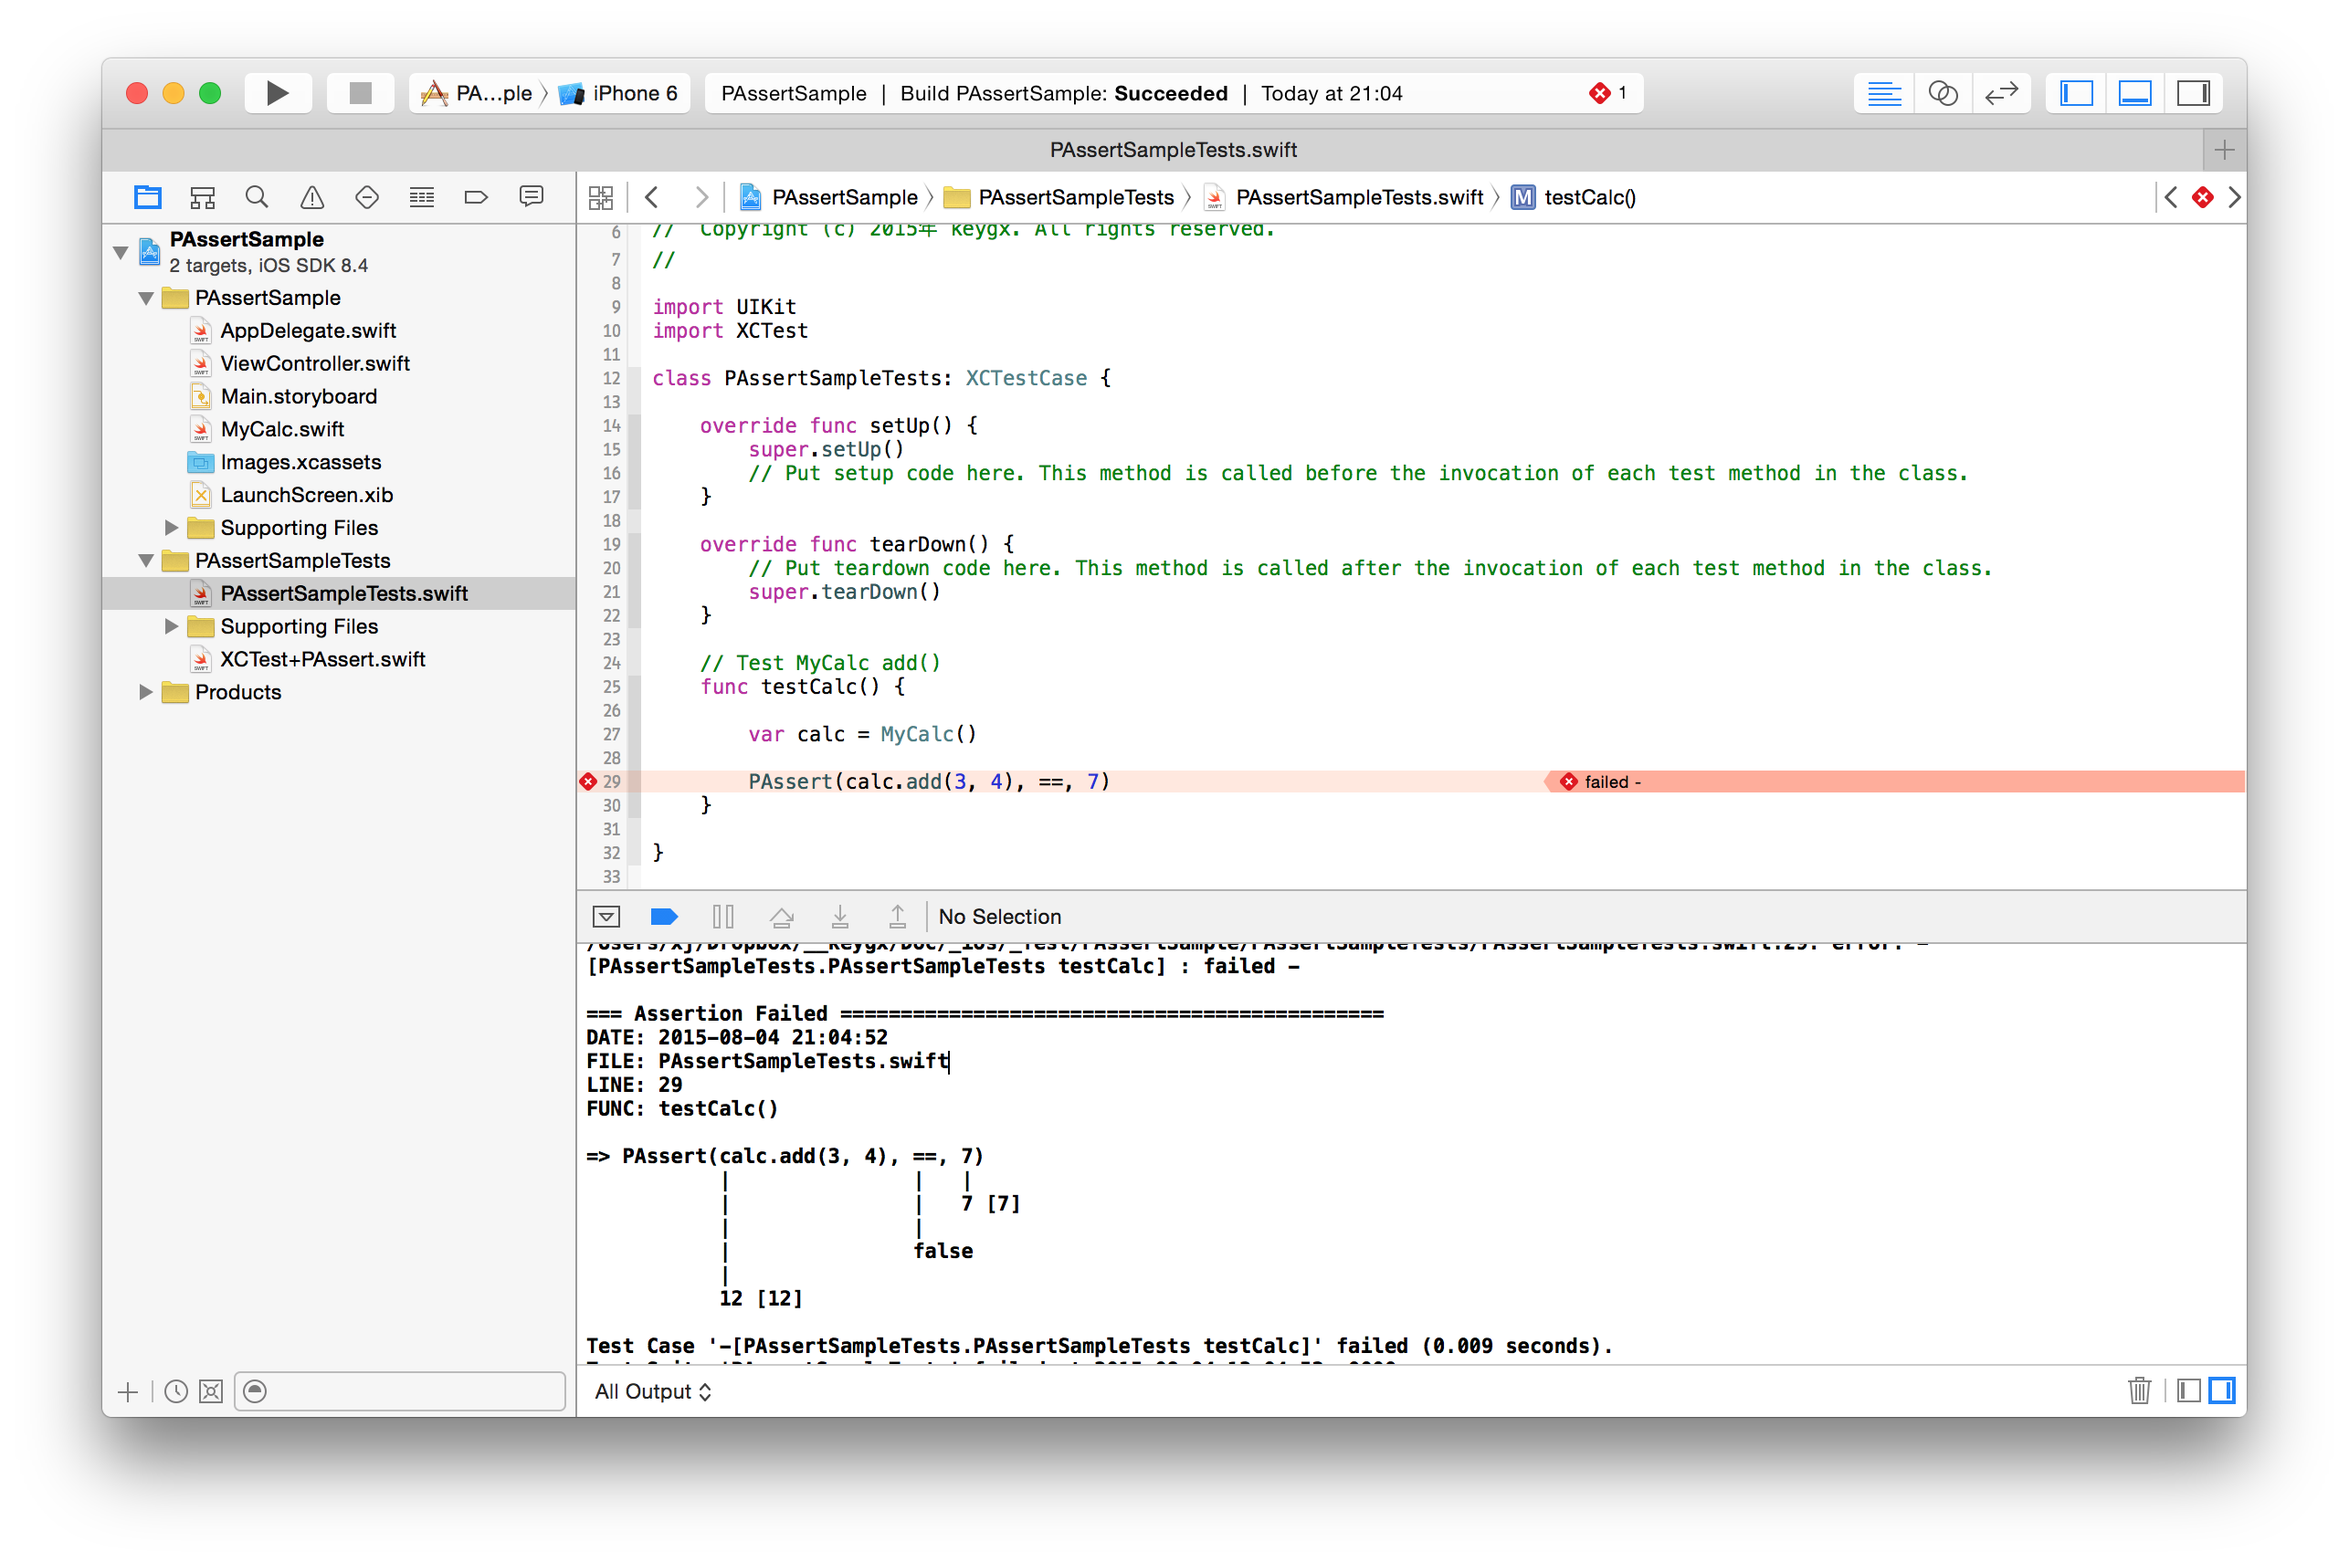
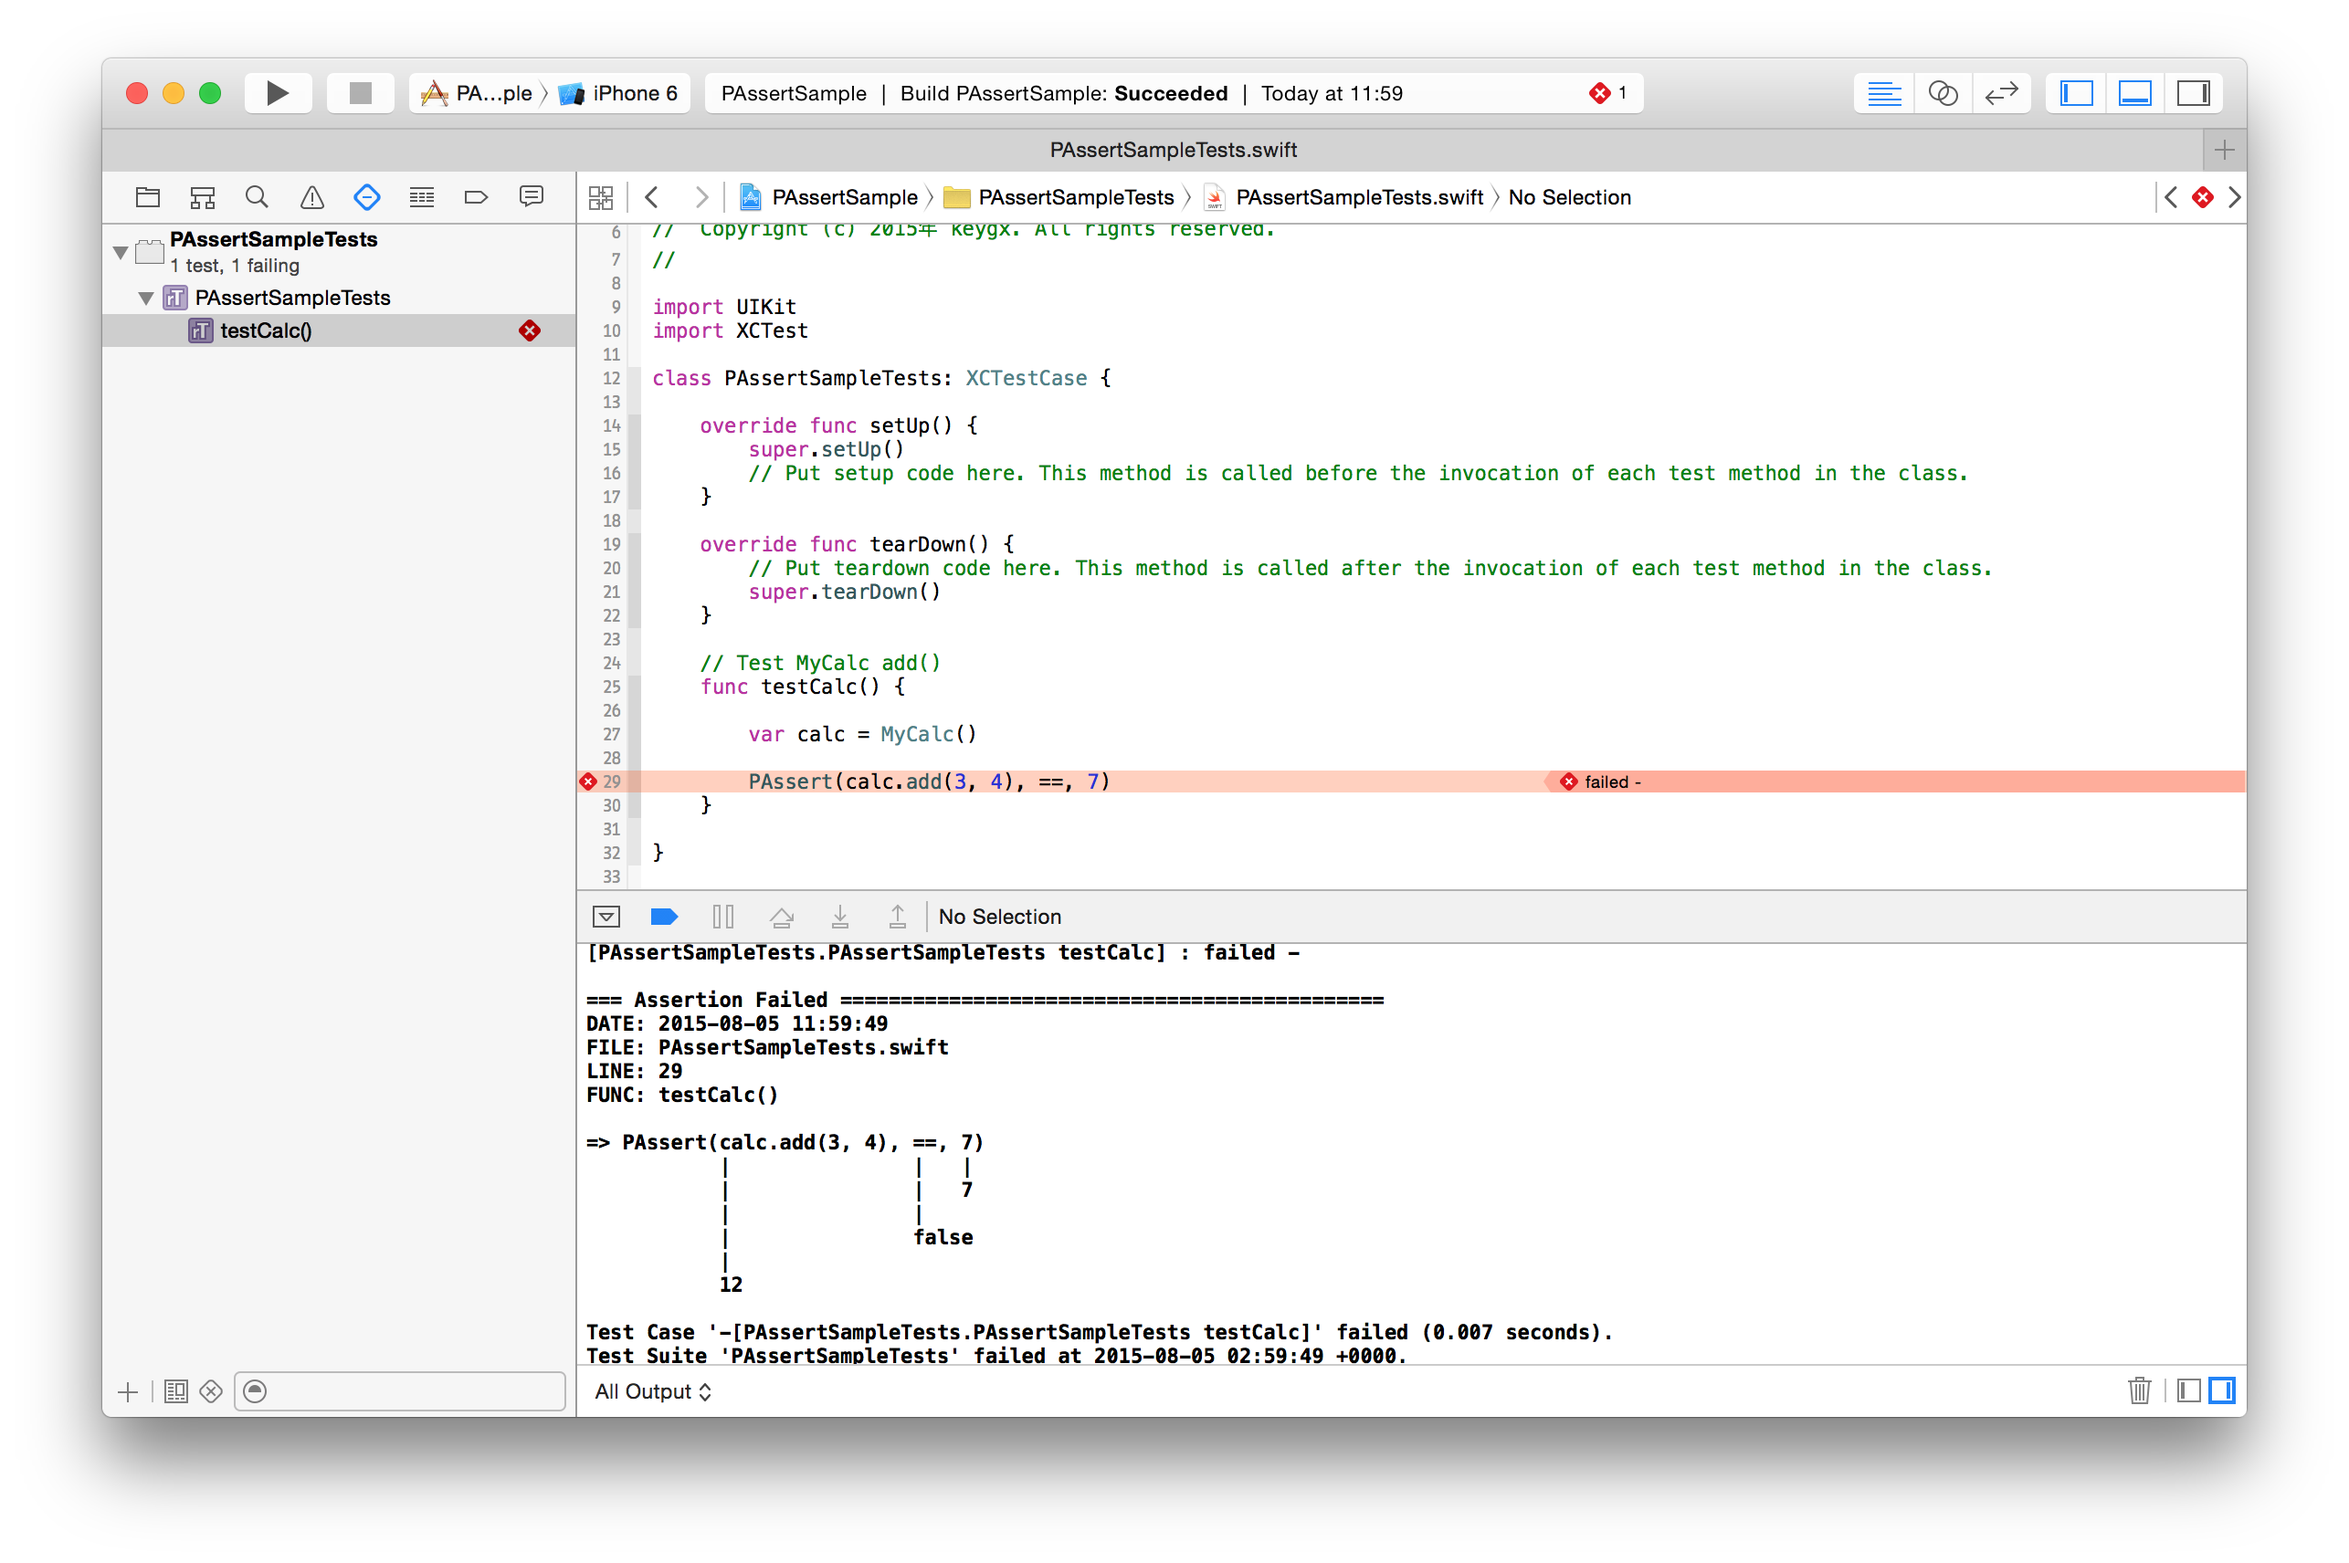
Update to README

diff --git a/Source/XCTest+PAssert.swift b/Source/XCTest+PAssert.swift
@@ -197,11 +197,11 @@ extension XCTest {
             
             var lValue = "\(lhs)"
             lValue = (lValue == "") ? "\"\"" : lValue
-            lValue = "\(lValue) [\(reflect(lhs).summary)]"
+            lValue = "\(lValue)"
             
             var rValue = "\(rhs)"
             rValue = (rValue == "") ? "\"\"" : rValue
-            rValue = "\(rValue) [\(reflect(rhs).summary)]"
+            rValue = "\(rValue)"
             
             var space1 = repeatCharacter(" ", length: indexes[0])
             var space2 = repeatCharacter(" ", length: indexes[1] - indexes[0])

diff --git a/README.md b/README.md
@@ -42,12 +42,12 @@ class PAssertSampleTests: XCTestCase {
     }
     
 }
+
 ```
 
 Test failure
 
 ```
-~~~~~~
 
 === Assertion Failed =============================================
 DATE: 2015-08-04 21:04:52
@@ -57,13 +57,11 @@ FUNC: testCalc()
 
 => PAssert(calc.add(3, 4), ==, 7)
            |               |   |
-           |               |   7 [7]
+           |               |   7
            |               |
            |               false
            |
-           12 [12]
-
-~~~~~~
+           12
 
 ```
 
